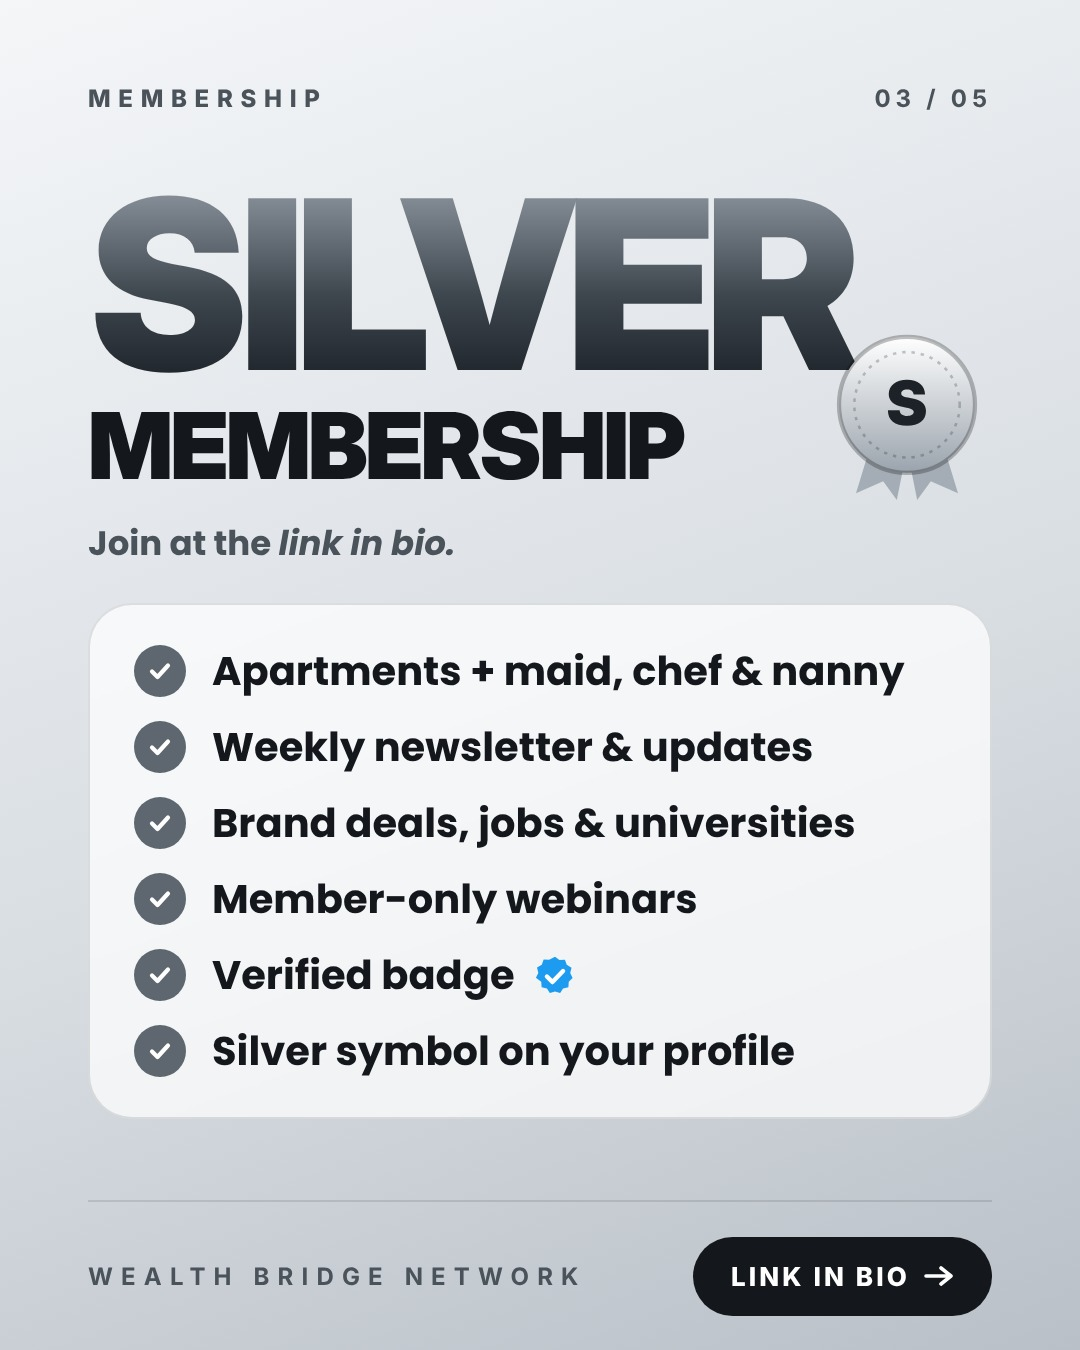
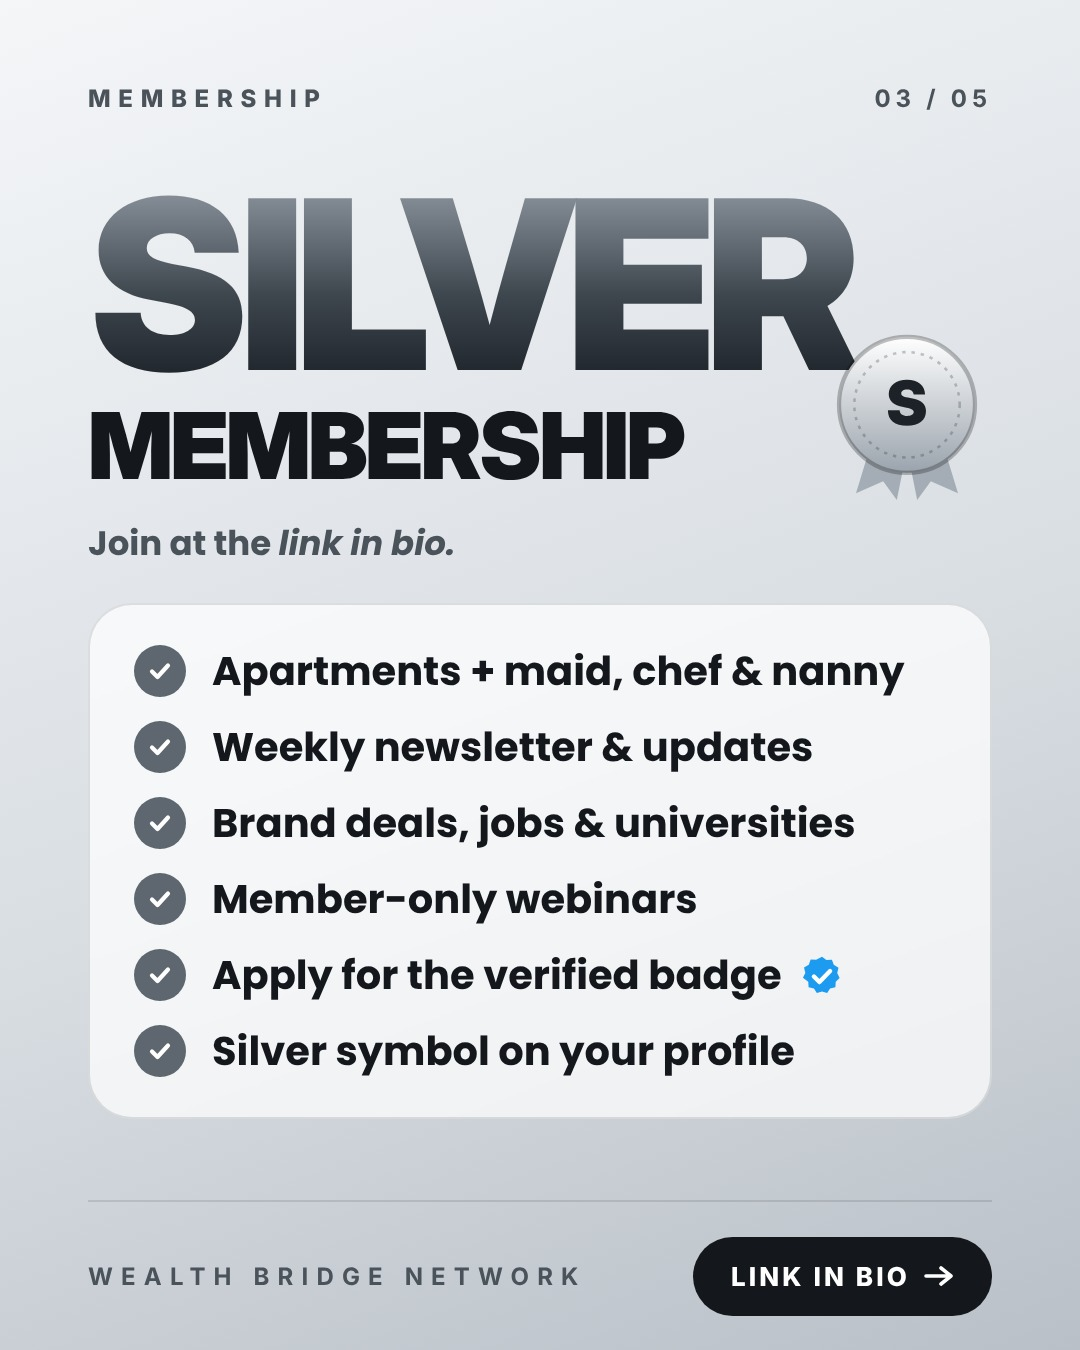
Membership carousel: Silver can apply for the verified badge
Claude-Session: https://claude.ai/code/session_01XWHiAw1FC92SEhPtnn4Xv2

Changed region(s): [[0.1833, 0.6844, 0.7944, 0.7467]]

diff --git a/content/membership.py b/content/membership.py
@@ -11,7 +11,7 @@ LINK = "Join at the *link in bio.*"
 POSTS = [
 dict(id="m1-memberships", pillar="Membership", title="Join our network",
  caption=caption("Join the Wealth Bridge Network: Free, Silver and Gold.",
-                 "Free: create an account, browse and get the newsletter. Silver: apartment listings, brand deals, jobs and universities, and member-only webinars, plus a verified badge. Gold: everything in Silver plus A.I. tools, early access to ALL opportunities and vetted manufacturers. Go to the link in bio to join.",
+                 "Free: create an account, browse and get the newsletter. Silver: apartment listings, brand deals, jobs and universities, and member-only webinars, plus access to apply for the verified badge. Gold: everything in Silver plus A.I. tools, early access to ALL opportunities and vetted manufacturers. Go to the link in bio to join.",
                  "#ugccreator #branddeals #creatoreconomy #membership"),
  slides=[
  dict(type="cover", title=["Join", "our", "*network.*"], size=184,
@@ -21,7 +21,7 @@ dict(id="m1-memberships", pillar="Membership", title="Join our network",
       items=["Create your account", "Browse the network", "Access to the newsletter", "Limited features"], **{"is": 50, "gap": 30}),
  dict(type="tier", theme="silver", name="Silver", letter="S", kicker=LINK, size=236,
       items=["Apartments + maid, chef & nanny", "Weekly newsletter & updates", "Brand deals, jobs & universities",
-             "Member-only webinars", "Verified badge [v]", "Silver symbol on your profile"], **{"is": 40, "gap": 24}),
+             "Member-only webinars", "Apply for the verified badge [v]", "Silver symbol on your profile"], **{"is": 40, "gap": 24}),
  dict(type="tier", theme="gold", name="Gold", letter="G", kicker=LINK,
       items=["Everything in Silver", "*A.I. tools*", "Early access to ALL opportunities", "First in line for brand deals & jobs",
              "Vetted manufacturers", "Priority support & events", "Verified badge [v]", "Gold symbol on your profile"], **{"is": 34, "gap": 12}),
